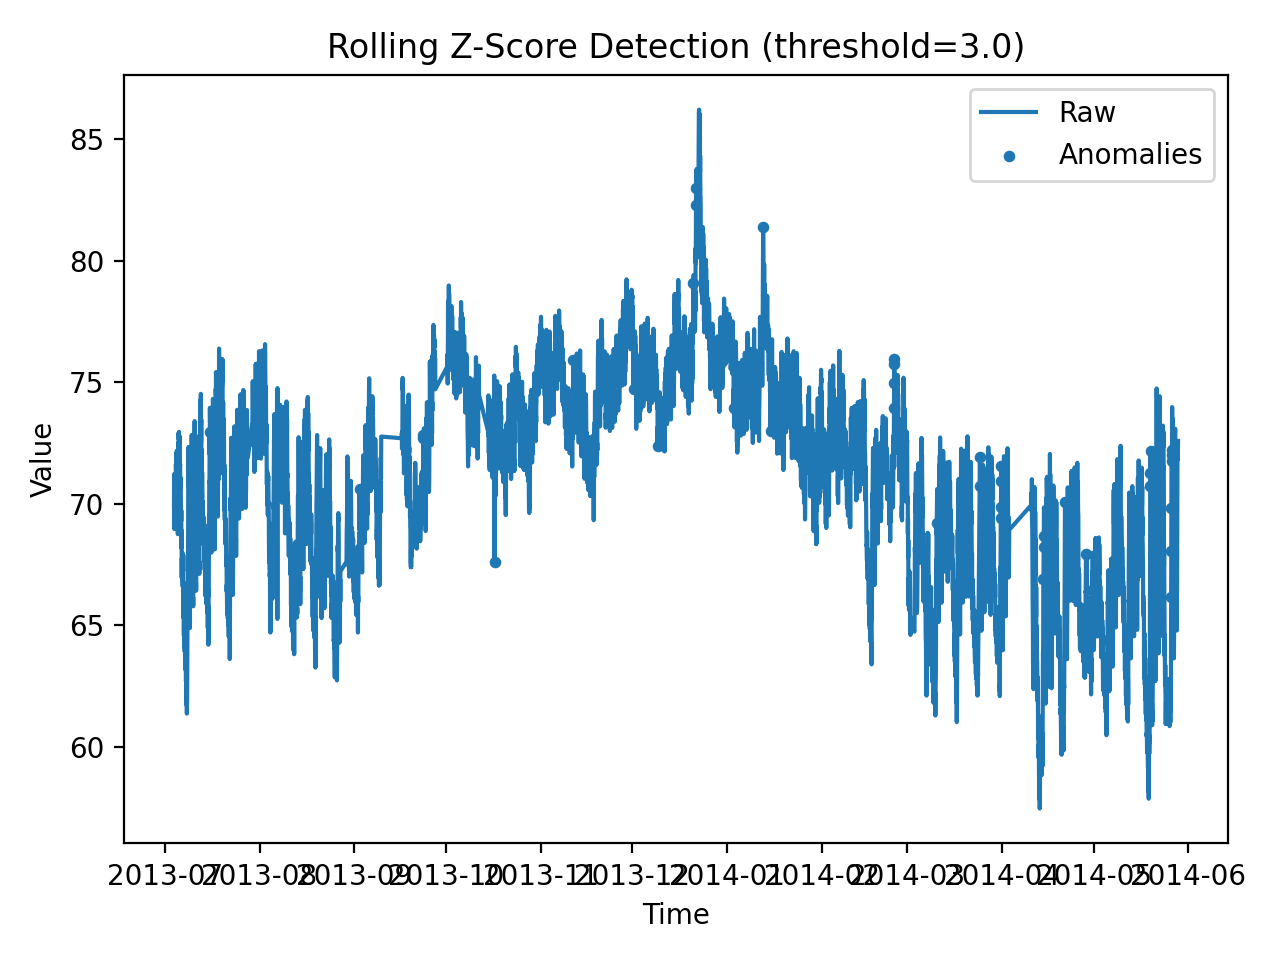
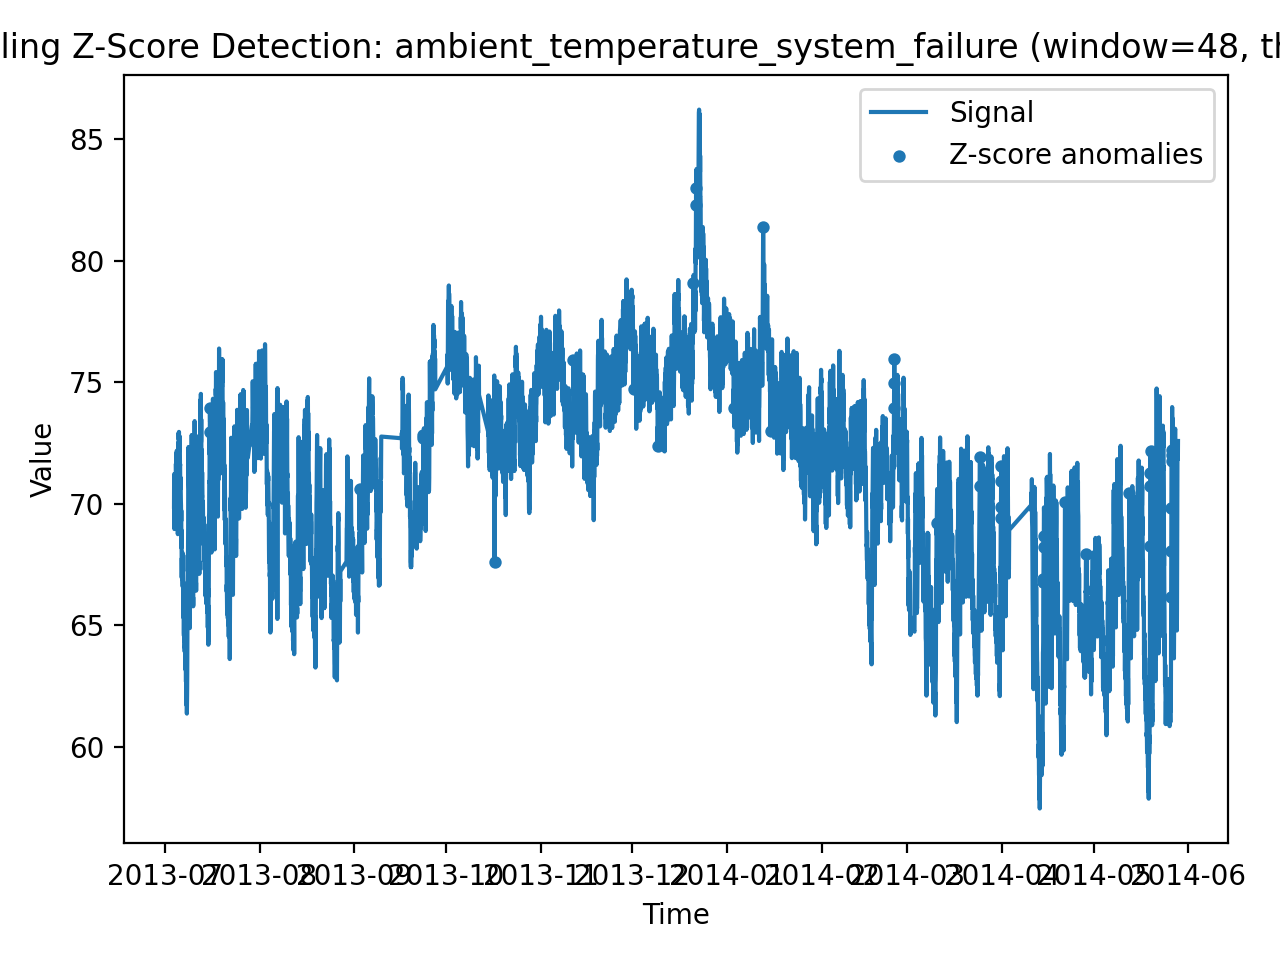
Add NAB scoring module and update z-score visualization

Changed region(s): [[0.0, 0.0312, 1.0, 0.1875], [0.6875, 0.1562, 0.7188, 0.1875]]

diff --git a/src/nab_scoring.py b/src/nab_scoring.py
@@ -1,0 +1,170 @@
+#!/usr/bin/env python3
+"""
+nab_scoring.py
+
+Lightweight NAB evaluation (Week-2 friendly):
+- Load NAB labeled anomaly windows from labels/combined_windows.json
+- Convert detected point/window flags into merged anomaly events (use evaluation.merge_anomaly_events)
+- Score event overlap with labeled windows -> TP/FP/FN + precision/recall
+
+This is NOT NAB's full scoring function, but it's perfect for a capstone baseline comparison.
+"""
+
+from __future__ import annotations
+
+import json
+from pathlib import Path
+from typing import List, Tuple, Dict, Optional
+
+import pandas as pd
+
+
+NAB_ROOT = Path("data/raw/NAB")
+LABELS_FILE = NAB_ROOT / "labels" / "combined_windows.json"
+
+
+def _ensure_labels_file() -> None:
+    if not LABELS_FILE.exists():
+        raise FileNotFoundError(
+            f"Could not find NAB labels file:\n  {LABELS_FILE}\n"
+            "Expected NAB repo structure under data/raw/NAB.\n"
+            "Check: ls data/raw/NAB/labels"
+        )
+
+
+def load_combined_windows() -> Dict[str, List[List[str]]]:
+    _ensure_labels_file()
+    with open(LABELS_FILE, "r") as f:
+        data = json.load(f)
+    return data
+
+
+def guess_nab_key_from_csv_path(csv_path: str, *, windows_dict: Dict[str, List[List[str]]]) -> str:
+    """
+    NAB combined_windows.json keys look like:
+      realKnownCause/ambient_temperature_system_failure.csv
+
+    Our pipeline uses an absolute/local csv path, so we convert it into a NAB-style key.
+    If conversion fails, we fall back to matching by filename suffix.
+    """
+    p = Path(csv_path).expanduser().resolve()
+
+    # Try to get path relative to NAB_ROOT
+    try:
+        rel = p.relative_to(NAB_ROOT.resolve())
+        key = rel.as_posix()
+        if key in windows_dict:
+            return key
+    except Exception:
+        pass
+
+    # Fallback: match by suffix on filename
+    fname = p.name
+    candidates = [k for k in windows_dict.keys() if k.endswith("/" + fname) or k.endswith(fname)]
+    if len(candidates) == 1:
+        return candidates[0]
+    if len(candidates) > 1:
+        # Prefer keys that include parent folder name if possible
+        parent = p.parent.name
+        for k in candidates:
+            if parent in k:
+                return k
+        return candidates[0]
+
+    raise ValueError(
+        f"Could not find label windows for file: {p}\n"
+        f"Tried rel-to-NAB_ROOT and filename match.\n"
+        f"Example keys in labels: {list(windows_dict.keys())[:5]}"
+    )
+
+
+def load_label_windows_for_series_key(series_key: str, *, windows_dict: Optional[Dict[str, List[List[str]]]] = None
+) -> List[Tuple[pd.Timestamp, pd.Timestamp]]:
+    """
+    Return list of (start, end) label windows as pandas Timestamps.
+    """
+    if windows_dict is None:
+        windows_dict = load_combined_windows()
+
+    if series_key not in windows_dict:
+        raise ValueError(f"No label windows found for series key: {series_key}")
+
+    windows = []
+    for start_str, end_str in windows_dict[series_key]:
+        windows.append((pd.Timestamp(start_str), pd.Timestamp(end_str)))
+    return windows
+
+
+def score_events_against_windows(
+    detected_events: List[Tuple[pd.Timestamp, pd.Timestamp]],
+    label_windows: List[Tuple[pd.Timestamp, pd.Timestamp]],
+) -> Dict[str, float]:
+    """
+    Event-level overlap scoring:
+    - TP: detected event overlaps at least one labeled window
+    - FP: detected event overlaps none
+    - FN: labeled window not overlapped by any detected event
+
+    Returns dict with TP/FP/FN + precision/recall.
+    """
+    tp = 0
+    fp = 0
+    matched_labels = set()
+
+    for d_start, d_end in detected_events:
+        overlapped_any = False
+        for i, (l_start, l_end) in enumerate(label_windows):
+            # overlap condition
+            if (d_start <= l_end) and (d_end >= l_start):
+                overlapped_any = True
+                matched_labels.add(i)
+        if overlapped_any:
+            tp += 1
+        else:
+            fp += 1
+
+    fn = len(label_windows) - len(matched_labels)
+
+    precision = tp / (tp + fp) if (tp + fp) > 0 else 0.0
+    recall = tp / (tp + fn) if (tp + fn) > 0 else 0.0
+
+    return {
+        "tp_events": float(tp),
+        "fp_events": float(fp),
+        "fn_windows": float(fn),
+        "precision": float(precision),
+        "recall": float(recall),
+    }
+
+
+def scoring_to_markdown_table(rows: List[Dict[str, object]]) -> str:
+    """
+    rows: list of dicts with keys: Detector, SeriesKey, TP, FP, FN, Precision, Recall
+    """
+    headers = ["Detector", "SeriesKey", "TP", "FP", "FN", "Precision", "Recall"]
+    lines = []
+    lines.append("| " + " | ".join(headers) + " |")
+    lines.append("|" + "|".join(["---"] * len(headers)) + "|")
+    for r in rows:
+        lines.append(
+            "| "
+            + " | ".join(
+                [
+                    str(r["Detector"]),
+                    str(r["SeriesKey"]),
+                    str(int(r["TP"])),
+                    str(int(r["FP"])),
+                    str(int(r["FN"])),
+                    f'{float(r["Precision"]):.3f}',
+                    f'{float(r["Recall"]):.3f}',
+                ]
+            )
+            + " |"
+        )
+    return "\n".join(lines)
+
+
+if __name__ == "__main__":
+    d = load_combined_windows()
+    print("Loaded combined_windows.json keys:", len(d))
+    print("Example key:", list(d.keys())[:1])
